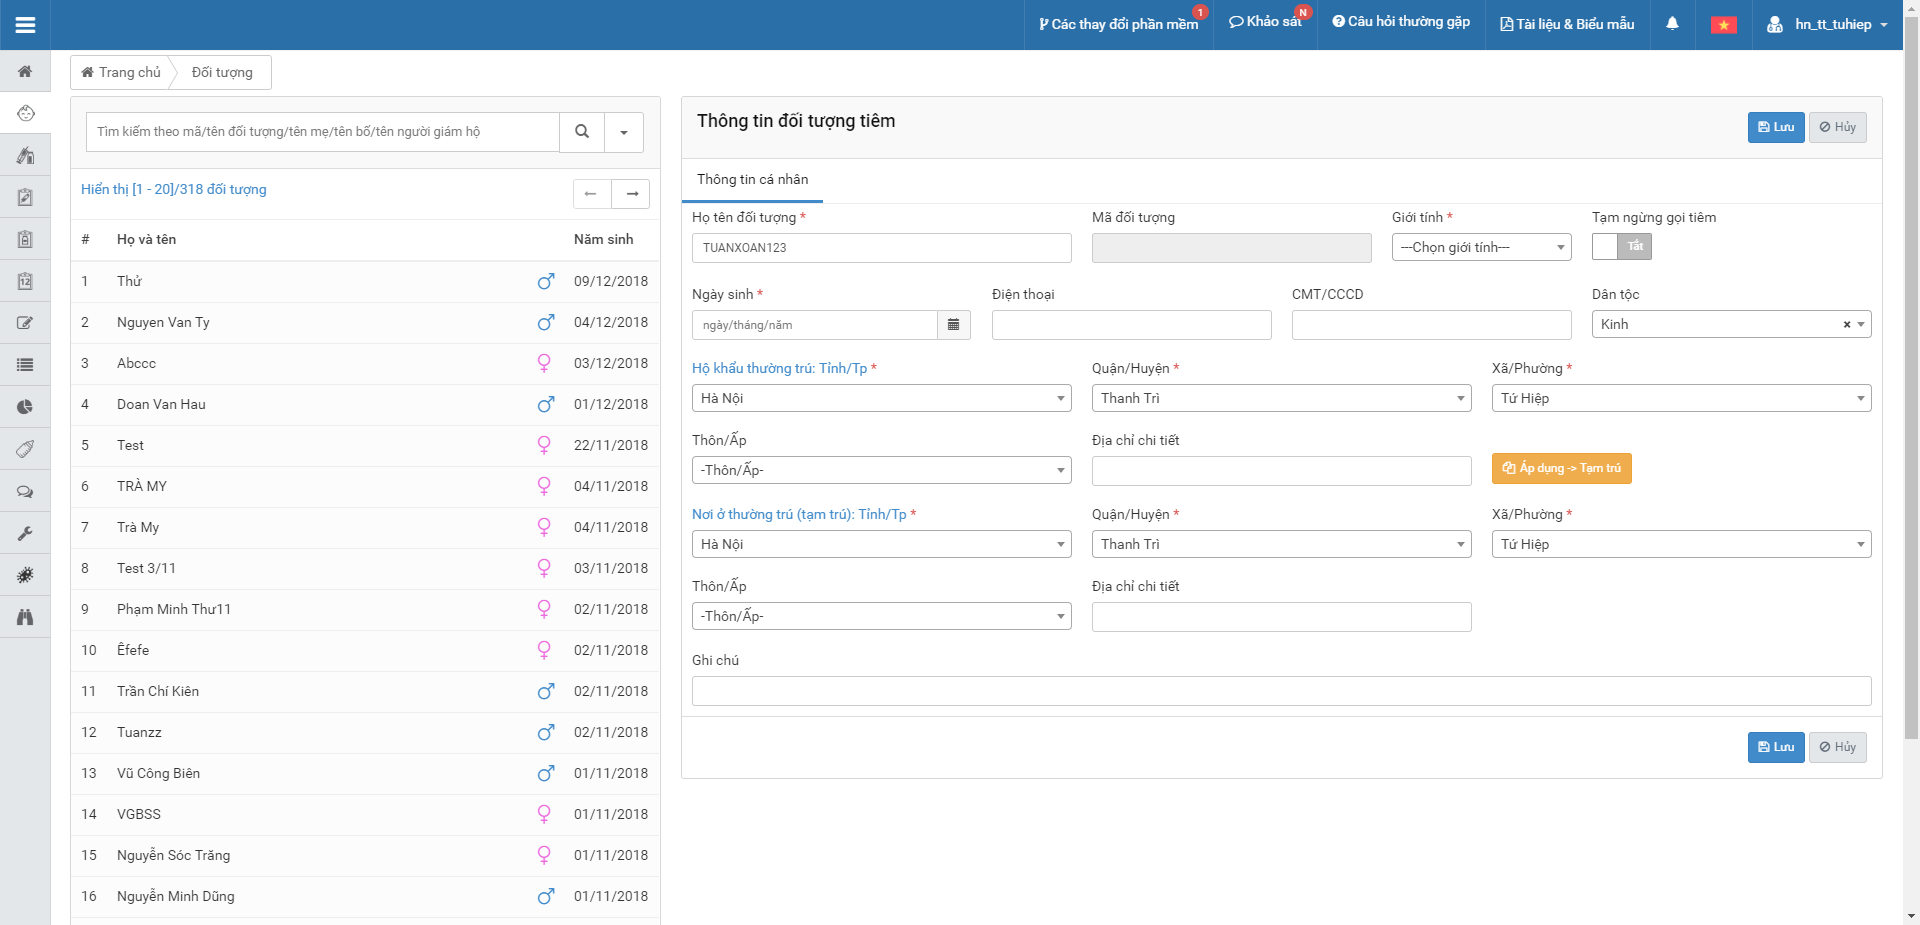
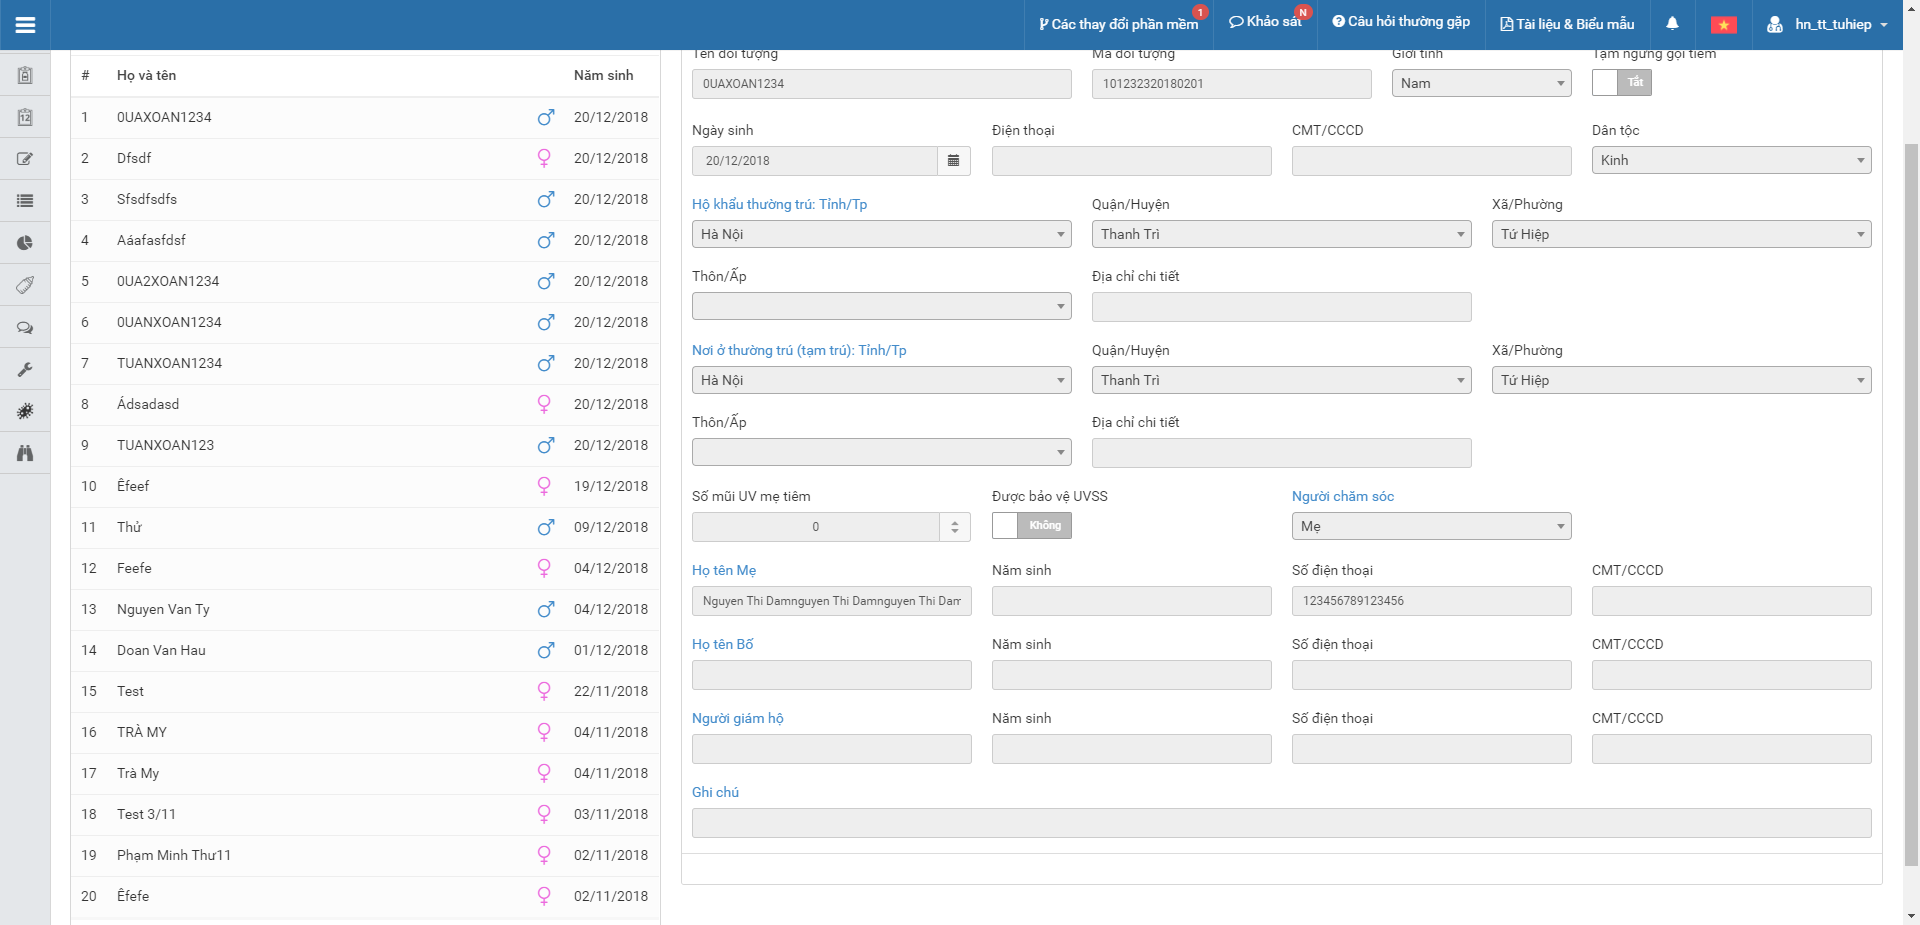
aa

diff --git a/target/HtmlReports/report.js b/target/HtmlReports/report.js
@@ -63,8 +63,7 @@ formatter.match({
   "location": "NewMBStep.select(String)"
 });
 formatter.result({
-  "error_message": "java.lang.NullPointerException\r\n\tat StepDefinitionS.NewMBStep.select(NewMBStep.java:81)\r\n\tat ✽.select \"Nam\"(src/test/resources/Viettel/newus.feature:10)\r\n",
-  "status": "failed"
+  "status": "passed"
 });
 formatter.step({
   "name": "select \"ngày tháng năm sinh\"",
@@ -74,7 +73,7 @@ formatter.match({
   "location": "NewMBStep.select(String)"
 });
 formatter.result({
-  "status": "skipped"
+  "status": "passed"
 });
 formatter.step({
   "name": "select \"Họ tên mẹ\"",
@@ -84,7 +83,7 @@ formatter.match({
   "location": "NewMBStep.select(String)"
 });
 formatter.result({
-  "status": "skipped"
+  "status": "passed"
 });
 formatter.step({
   "name": "select \"Số điện thoại\"",
@@ -94,7 +93,7 @@ formatter.match({
   "location": "NewMBStep.select(String)"
 });
 formatter.result({
-  "status": "skipped"
+  "status": "passed"
 });
 formatter.step({
   "name": "i click button \"Lưu\"",
@@ -104,7 +103,7 @@ formatter.match({
   "location": "NewMBStep.i_click_button(String)"
 });
 formatter.result({
-  "status": "skipped"
+  "status": "passed"
 });
 formatter.step({
   "name": "I should see the notification message \"Thêm mới đối tượng thành công\"",
@@ -114,7 +113,8 @@ formatter.match({
   "location": "NewMBStep.i_should_see_the_notification_message(String)"
 });
 formatter.result({
-  "status": "skipped"
+  "error_message": "org.openqa.selenium.NoSuchElementException: no such element: Unable to locate element: {\"method\":\"css selector\",\"selector\":\"body.stickyheader.leftpanel-collapsed:nth-child(5) div.bottom-right:nth-child(22) div.gritter-item-wrapper.growl-success div.gritter-item div.gritter-without-image:nth-child(2) \u003e p:nth-child(2)\"}\n  (Session info: chrome\u003d71.0.3578.98)\n  (Driver info: chromedriver\u003d2.35.528161 (5b82f2d2aae0ca24b877009200ced9065a772e73),platform\u003dWindows NT 10.0.15063 x86_64) (WARNING: The server did not provide any stacktrace information)\nCommand duration or timeout: 0 milliseconds\nFor documentation on this error, please visit: http://seleniumhq.org/exceptions/no_such_element.html\nBuild info: version: \u00273.14.0\u0027, revision: \u0027aacccce0\u0027, time: \u00272018-08-02T20:19:58.91Z\u0027\nSystem info: host: \u0027VBS-TUANN349-P\u0027, ip: \u002710.61.185.111\u0027, os.name: \u0027Windows 10\u0027, os.arch: \u0027amd64\u0027, os.version: \u002710.0\u0027, java.version: \u00271.8.0_191\u0027\nDriver info: org.openqa.selenium.chrome.ChromeDriver\nCapabilities {acceptInsecureCerts: false, acceptSslCerts: false, applicationCacheEnabled: false, browserConnectionEnabled: false, browserName: chrome, chrome: {chromedriverVersion: 2.35.528161 (5b82f2d2aae0ca..., userDataDir: C:\\Users\\vm-setup\\AppData\\L...}, cssSelectorsEnabled: true, databaseEnabled: false, handlesAlerts: true, hasTouchScreen: false, javascriptEnabled: true, locationContextEnabled: true, mobileEmulationEnabled: false, nativeEvents: true, networkConnectionEnabled: false, pageLoadStrategy: normal, platform: XP, platformName: XP, rotatable: false, setWindowRect: true, takesHeapSnapshot: true, takesScreenshot: true, unexpectedAlertBehaviour: , unhandledPromptBehavior: , version: 71.0.3578.98, webStorageEnabled: true}\nSession ID: febb43427aa83ca1a9bf43bbd10ba549\n*** Element info: {Using\u003dcss selector, value\u003dbody.stickyheader.leftpanel-collapsed:nth-child(5) div.bottom-right:nth-child(22) div.gritter-item-wrapper.growl-success div.gritter-item div.gritter-without-image:nth-child(2) \u003e p:nth-child(2)}\r\n\tat sun.reflect.NativeConstructorAccessorImpl.newInstance0(Native Method)\r\n\tat sun.reflect.NativeConstructorAccessorImpl.newInstance(NativeConstructorAccessorImpl.java:62)\r\n\tat sun.reflect.DelegatingConstructorAccessorImpl.newInstance(DelegatingConstructorAccessorImpl.java:45)\r\n\tat java.lang.reflect.Constructor.newInstance(Constructor.java:423)\r\n\tat org.openqa.selenium.remote.ErrorHandler.createThrowable(ErrorHandler.java:214)\r\n\tat org.openqa.selenium.remote.ErrorHandler.throwIfResponseFailed(ErrorHandler.java:166)\r\n\tat org.openqa.selenium.remote.http.JsonHttpResponseCodec.reconstructValue(JsonHttpResponseCodec.java:40)\r\n\tat org.openqa.selenium.remote.http.AbstractHttpResponseCodec.decode(AbstractHttpResponseCodec.java:80)\r\n\tat org.openqa.selenium.remote.http.AbstractHttpResponseCodec.decode(AbstractHttpResponseCodec.java:44)\r\n\tat org.openqa.selenium.remote.HttpCommandExecutor.execute(HttpCommandExecutor.java:158)\r\n\tat org.openqa.selenium.remote.service.DriverCommandExecutor.execute(DriverCommandExecutor.java:83)\r\n\tat org.openqa.selenium.remote.RemoteWebDriver.execute(RemoteWebDriver.java:548)\r\n\tat org.openqa.selenium.remote.RemoteWebDriver.findElement(RemoteWebDriver.java:322)\r\n\tat org.openqa.selenium.remote.RemoteWebDriver.findElementByCssSelector(RemoteWebDriver.java:416)\r\n\tat org.openqa.selenium.By$ByCssSelector.findElement(By.java:431)\r\n\tat org.openqa.selenium.remote.RemoteWebDriver.findElement(RemoteWebDriver.java:314)\r\n\tat org.openqa.selenium.support.pagefactory.DefaultElementLocator.findElement(DefaultElementLocator.java:69)\r\n\tat org.openqa.selenium.support.pagefactory.internal.LocatingElementHandler.invoke(LocatingElementHandler.java:38)\r\n\tat com.sun.proxy.$Proxy16.getText(Unknown Source)\r\n\tat StepDefinitionS.NewMBStep.i_should_see_the_notification_message(NewMBStep.java:108)\r\n\tat ✽.I should see the notification message \"Thêm mới đối tượng thành công\"(src/test/resources/Viettel/newus.feature:15)\r\n",
+  "status": "failed"
 });
 formatter.embedding("image/png", "embedded0.png");
 formatter.after({

diff --git a/src/test/java/StepDefinitionS/NewMBStep.java b/src/test/java/StepDefinitionS/NewMBStep.java
@@ -13,6 +13,8 @@ import java.util.concurrent.TimeUnit;
 
 import org.junit.Assert;
 import org.openqa.selenium.By;
+import org.openqa.selenium.JavascriptExecutor;
+import org.openqa.selenium.Keys;
 import org.openqa.selenium.OutputType;
 import org.openqa.selenium.WebDriver;
 import org.openqa.selenium.chrome.ChromeDriver;
@@ -32,7 +34,7 @@ public class NewMBStep {
 	@Before
 	public void StartTest() {
 		newMB = new NewMBTest(driver);
-
+		
 	}
 
 	@After
@@ -53,6 +55,8 @@ public class NewMBStep {
 		newMB.passWord.sendKeys("123456a@Xa");
 		newMB.dangNhap.click();
 		
+		
+		
 	}
 
 	@Given("^Im staying on homepage$")
@@ -70,21 +74,28 @@ public class NewMBStep {
 
 	@When("^I input \"([^\"]*)\"$")
 	public void i_input(String arg1) throws Exception {
-		newMB.txtHoten.sendKeys("TUANXOAN123");
+		newMB.txtHoten.sendKeys("0UAXOAN1234");
 		// Write code here that turns the phrase above into concrete actions
 		
 	}
 
 	@When("^select \"([^\"]*)\"$")
 	public void select(String arg1) throws Exception {
-		Thread.sleep(4000);
-		 newMB.cbbGioiTinh.selectByValue("Nam");
+		JavascriptExecutor js=(JavascriptExecutor) driver;
+		 Select cbbGioiTinh=new Select(driver.findElement(By.id("slGioiTinh_ThemMoi")));
+		 cbbGioiTinh.selectByVisibleText("Nam");
+		 newMB.txtNgaySinh.sendKeys("20112018");
+		 newMB.txtNgaySinh.sendKeys(Keys.RETURN);
+		 js.executeScript("window.scrollTo(0,3000)");
+		 newMB.txtTenMe.sendKeys("Nguyen Thi Dam");
+		 newMB.txtSDTMe.sendKeys("123456789");
 		// Write code here that turns the phrase above into concrete actions
 		 
 	}
-
+    
 	@When("^i click button \"([^\"]*)\"$")
 	public void i_click_button(String arg1) throws Exception {
+		newMB.btnSave.click();
 		// Write code here that turns the phrase above into concrete actions
 		
 	}
@@ -92,7 +103,10 @@ public class NewMBStep {
 	@Then("^I should see the notification message \"([^\"]*)\"$")
 	public void i_should_see_the_notification_message(String arg1) throws Exception {
 		// Write code here that turns the phrase above into concrete actions
+		Thread.sleep(3000);
 		
+		assertEquals(newMB.msgPass.getText(),"Thêm mới đối tượng thành công");
+		System.out.println(driver.getPageSource());
 	}
 
 }

diff --git a/src/test/java/TestObject/NewMBTest.java b/src/test/java/TestObject/NewMBTest.java
@@ -33,11 +33,20 @@ public class NewMBTest {
  public WebElement btnAdd;
  @FindBy(css="#txtHoTen_ThemMoi")
  public WebElement txtHoten;
- @FindBy(css="#select2-slGioiTinh_ThemMoi-container")
- public Select cbbGioiTinh;
-  
+ //@FindBy(id="slGioiTinh_ThemMoi")
+ //public Select cbbGioiTinh;
+ @FindBy(css="#txtNgaySinh_ThemMoi")
+ public WebElement txtNgaySinh;
+ @FindBy(css="#txtTenMe_ThemMoi")
+ public WebElement txtTenMe;
+ @FindBy(css="#txtDienThoaiMe_ThemMoi")
+ public WebElement txtSDTMe;
+ @FindBy(css="#btnSave2")
+ public WebElement btnSave;
+ @FindBy(css="body.stickyheader.leftpanel-collapsed:nth-child(5) div.bottom-right:nth-child(22) div.gritter-item-wrapper.growl-success div.gritter-item div.gritter-without-image:nth-child(2) > p:nth-child(2)")	
+ public WebElement msgPass;
  public NewMBTest(WebDriver driver) {
-	
+ 
 	PageFactory.initElements(driver,this);
 			
 }
